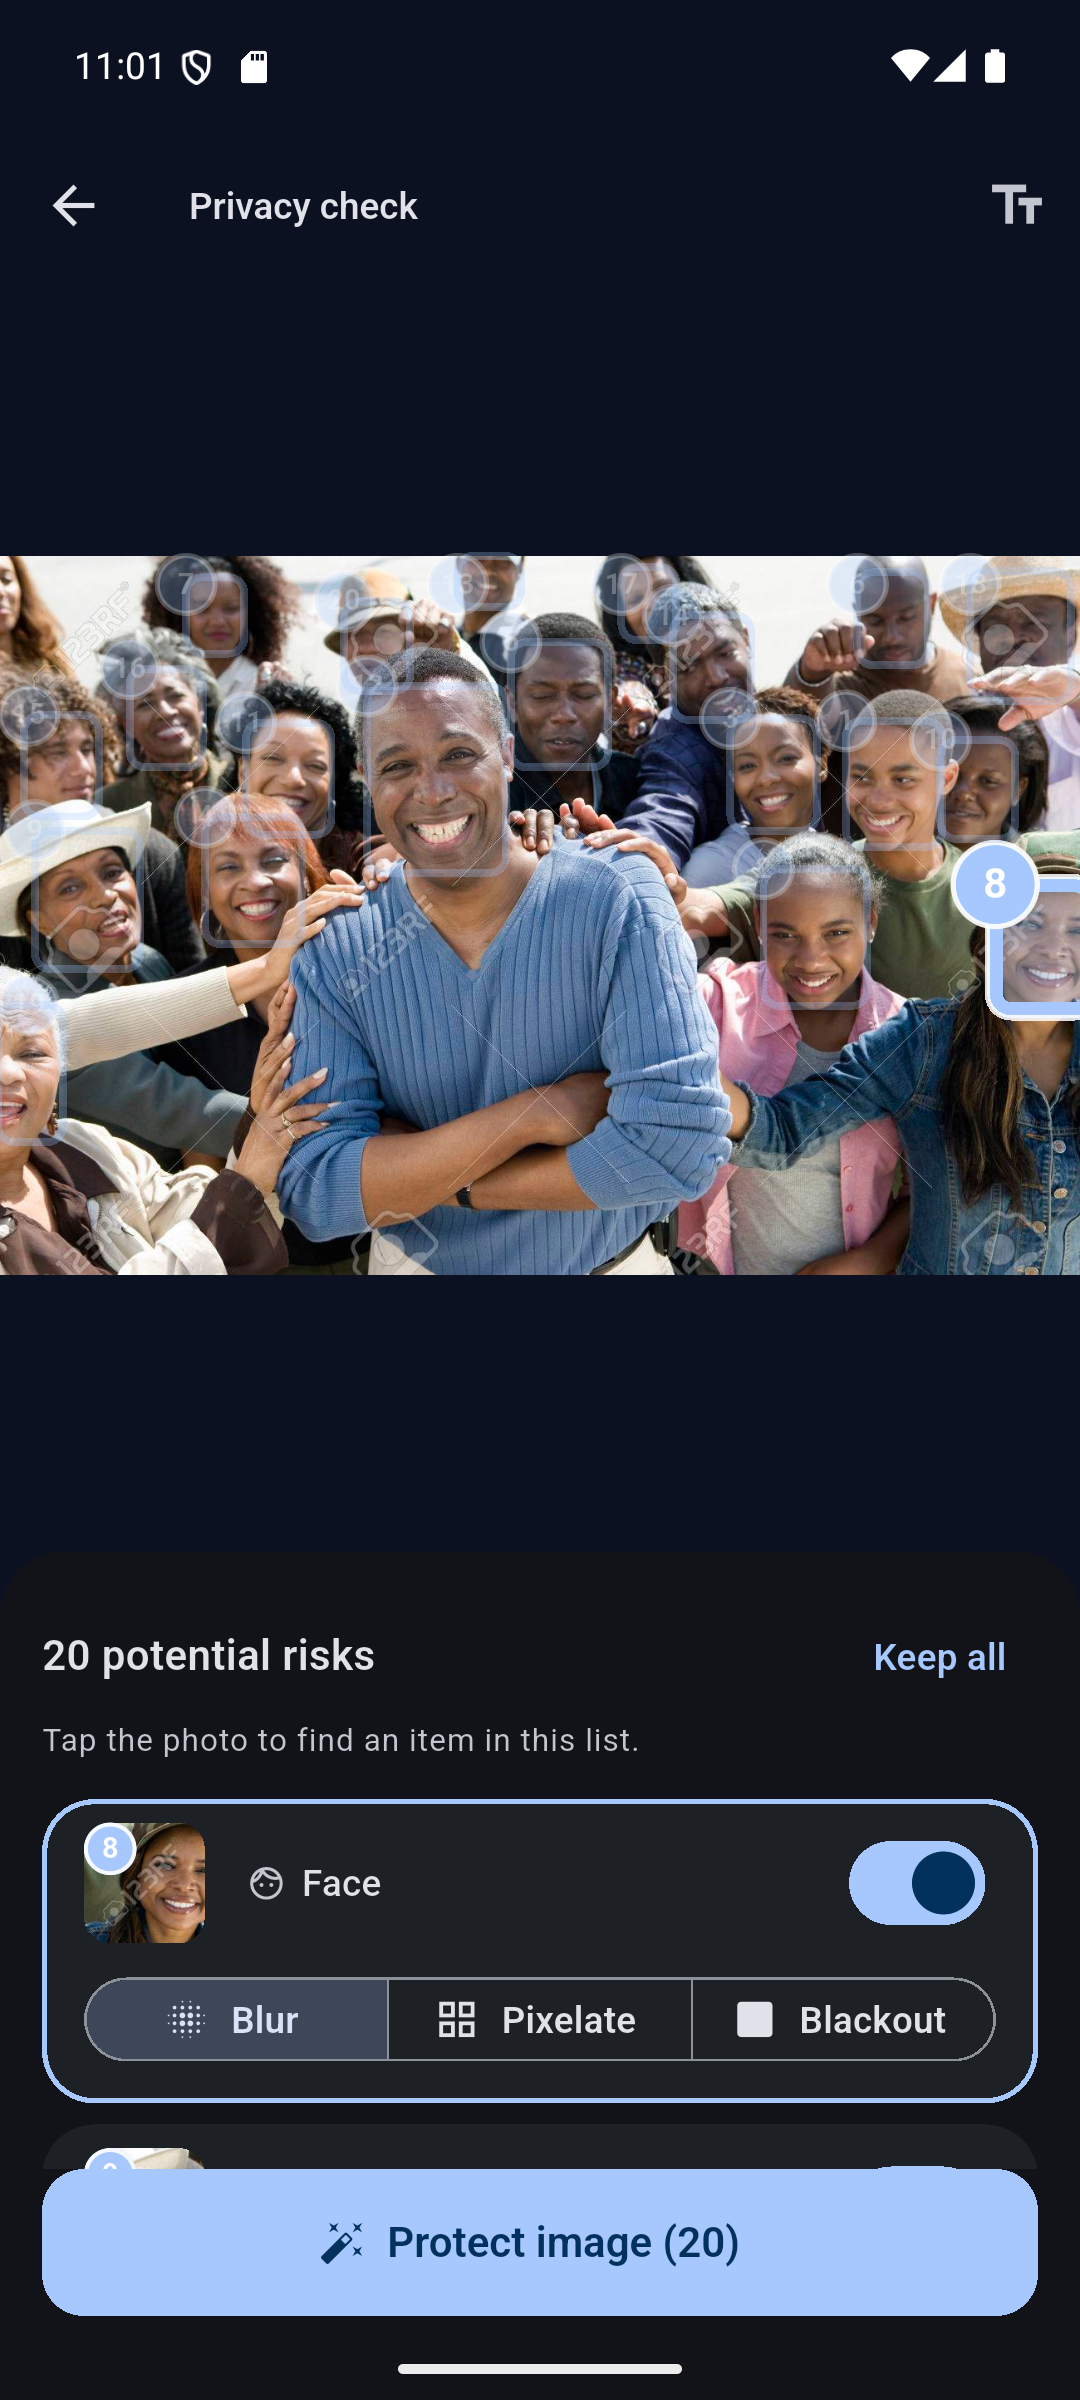
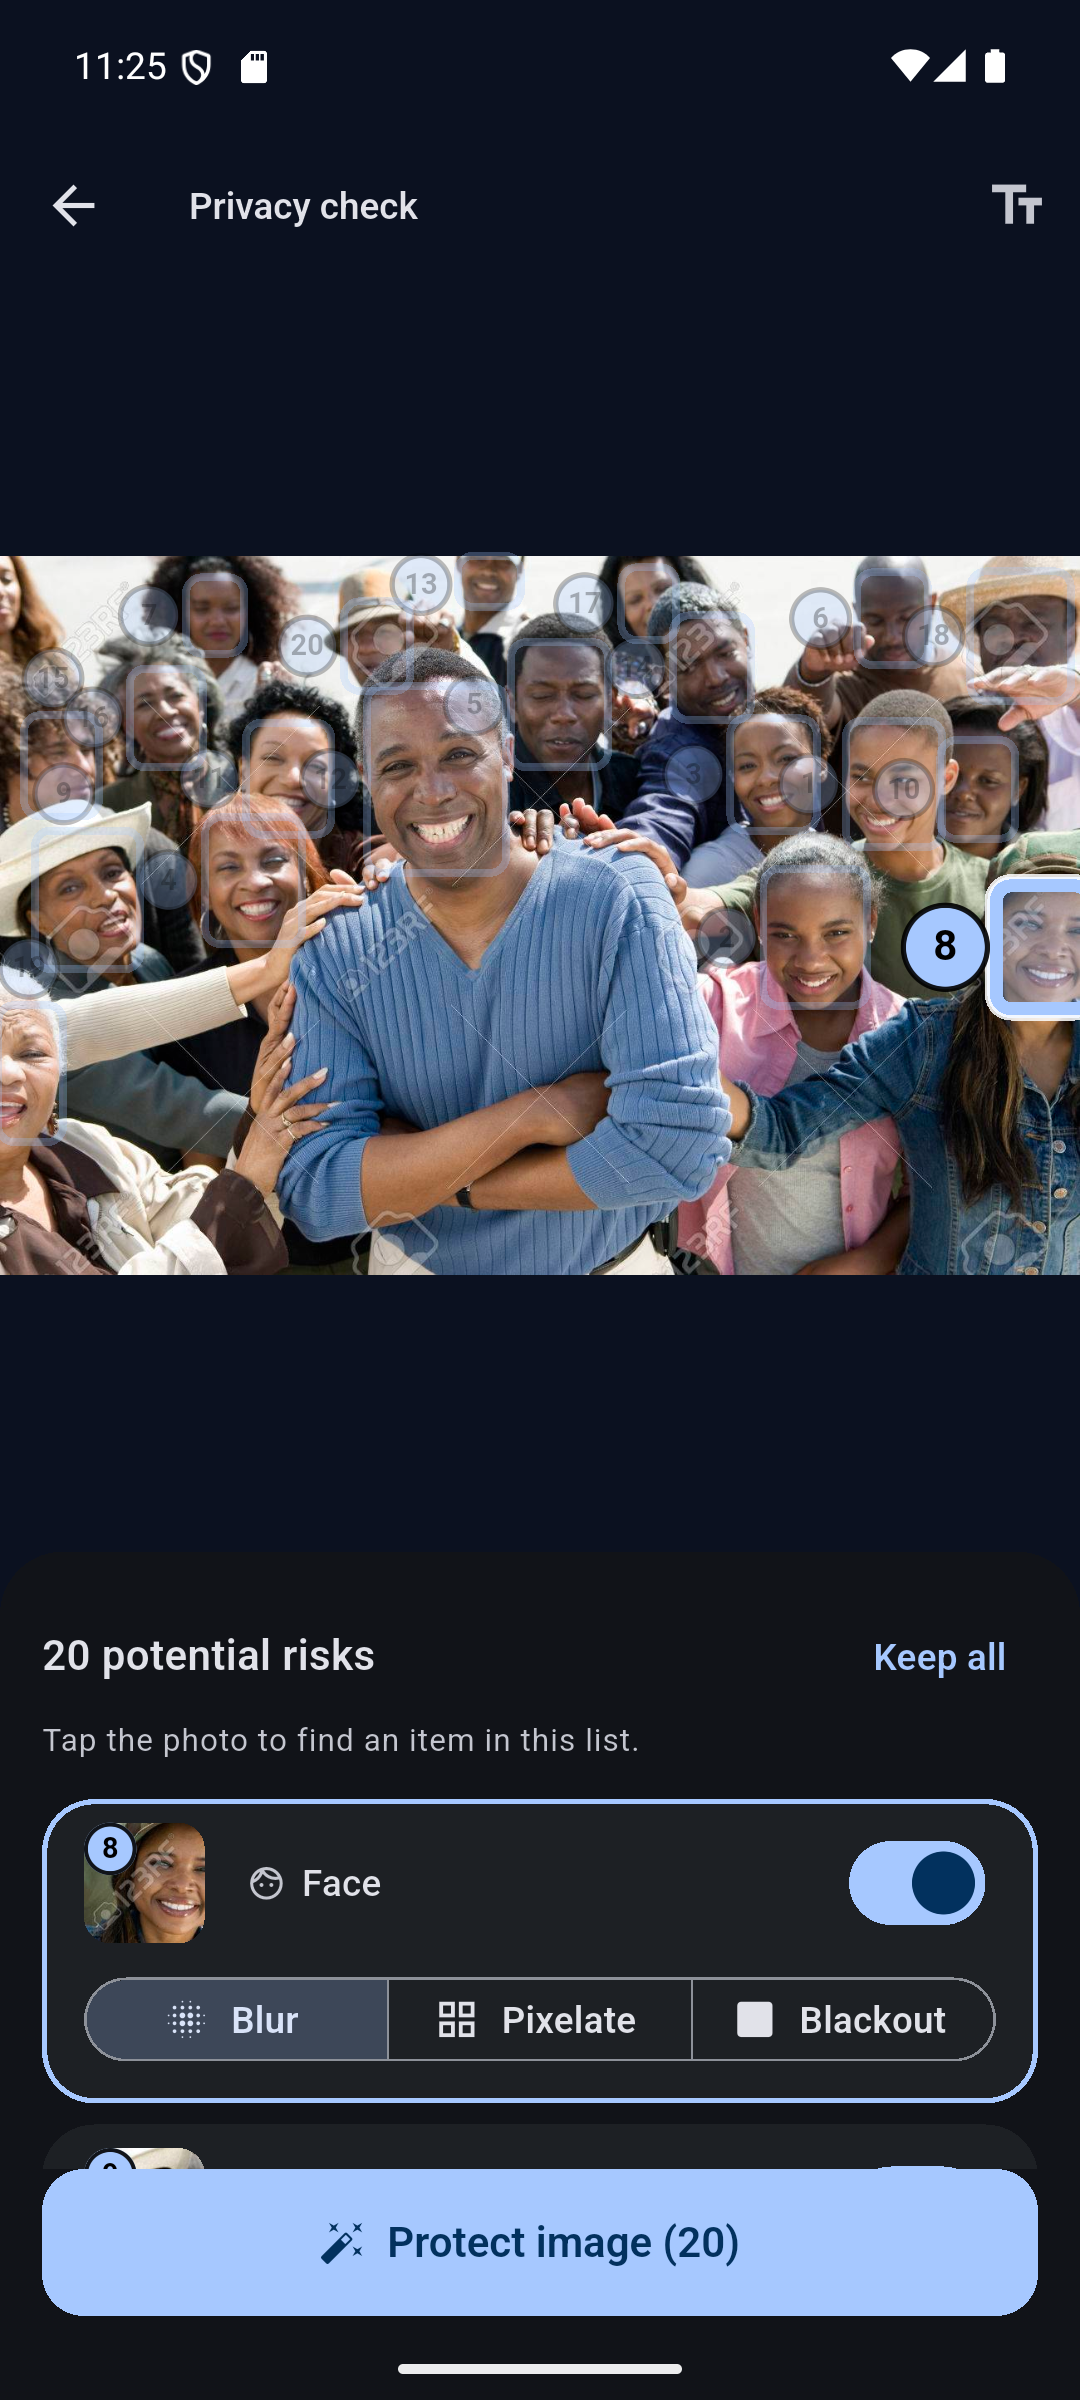
Fix finding badge placement, thumbnails and colour consistency
Badges covered the text they labelled; thumbnails cropped from the longest side pulled in neighbouring findings; the overlay and card each had their own type-to-colour map and disagreed; badge numerals were unreadable on light fills. Refreshes the README screenshots.

diff --git a/lib/widgets/detection_overlay.dart b/lib/widgets/detection_overlay.dart
@@ -1,7 +1,10 @@
+import 'dart:math' as math;
+
 import 'package:flutter/material.dart';
 
 import '../models/privacy_finding.dart';
 import '../theme/app_theme.dart';
+import 'finding_style.dart';
 
 /// Draws a numbered box around each finding.
 ///
@@ -70,14 +73,6 @@ class _FindingBoxPainter extends CustomPainter {
   final String? highlightedId;
   final List<Rect> debugTextBounds;
 
-  Color _colorFor(FindingType type) => switch (type) {
-    FindingType.face => scheme.primary,
-    FindingType.qrCode => scheme.tertiary,
-    FindingType.manual => scheme.secondary,
-    // Every text-derived risk shares the alarm colour.
-    _ => riskColor,
-  };
-
   @override
   void paint(Canvas canvas, Size size) {
     if (imageSize.isEmpty) return;
@@ -110,7 +105,7 @@ class _FindingBoxPainter extends CustomPainter {
 
     for (final (index, finding) in findings.indexed) {
       final rect = toScreen(finding.bounds);
-      final color = _colorFor(finding.type);
+      final color = colorForFinding(finding.type, scheme, riskColor);
       final rrect = RRect.fromRectAndRadius(rect, const Radius.circular(6));
       final isHighlighted = finding.id == highlightedId;
 
@@ -160,7 +155,7 @@ class _FindingBoxPainter extends CustomPainter {
         );
       }
 
-      _drawBadge(canvas, rect, index + 1, color, isHighlighted, fade);
+      _drawBadge(canvas, size, rect, index + 1, color, isHighlighted, fade);
     }
   }
 
@@ -170,6 +165,7 @@ class _FindingBoxPainter extends CustomPainter {
   /// A number on both the box and the card is what makes them one thing.
   void _drawBadge(
     Canvas canvas,
+    Size size,
     Rect rect,
     int number,
     Color color,
@@ -177,33 +173,51 @@ class _FindingBoxPainter extends CustomPainter {
     double fade,
   ) {
     final radius = isHighlighted ? 16.0 : 11.0;
+    const gap = 3.0;
 
-    // Sit the badge just outside the top-left corner, but pull it back
-    // inside when the box is near the edge of the image.
-    final centre = Offset(
-      rect.left.clamp(radius, double.infinity),
-      rect.top.clamp(radius, double.infinity),
+    // Keep the badge OUTSIDE the box it labels. Sitting it on the corner
+    // covered the first character of every flagged phone number, email
+    // and address - the badge hid the very thing it was pointing at.
+    //
+    // Prefer the left edge, because findings that stack vertically (lines
+    // of text) have room beside them but not above. Fall back to above,
+    // then inside, when the box is against an edge of the image.
+    final Offset centre;
+    if (rect.left - radius - gap >= 0) {
+      centre = Offset(rect.left - radius - gap, rect.center.dy);
+    } else if (rect.top - radius - gap >= 0) {
+      centre = Offset(rect.left + radius, rect.top - radius - gap);
+    } else {
+      centre = Offset(rect.left + radius + gap, rect.top + radius + gap);
+    }
+
+    // Never let it fall off the edge of the canvas.
+    final clamped = Offset(
+      centre.dx.clamp(radius, math.max(radius, size.width - radius)),
+      centre.dy.clamp(radius, math.max(radius, size.height - radius)),
     );
 
     canvas.drawCircle(
-      centre,
+      clamped,
       radius,
       Paint()..color = color.withValues(alpha: fade),
     );
+    final ink = onFindingColor(color);
+
     canvas.drawCircle(
-      centre,
+      clamped,
       radius,
       Paint()
         ..style = PaintingStyle.stroke
         ..strokeWidth = 2
-        ..color = Colors.white.withValues(alpha: 0.9 * fade),
+        ..color = ink.withValues(alpha: 0.9 * fade),
     );
 
     final painter = TextPainter(
       text: TextSpan(
         text: '$number',
         style: TextStyle(
-          color: Colors.white.withValues(alpha: fade),
+          color: ink.withValues(alpha: fade),
           fontSize: radius,
           fontWeight: FontWeight.w700,
           height: 1,
@@ -214,7 +228,7 @@ class _FindingBoxPainter extends CustomPainter {
 
     painter.paint(
       canvas,
-      centre - Offset(painter.width / 2, painter.height / 2),
+      clamped - Offset(painter.width / 2, painter.height / 2),
     );
   }
 

diff --git a/lib/widgets/finding_card.dart b/lib/widgets/finding_card.dart
@@ -4,34 +4,8 @@ import 'package:flutter/material.dart';
 
 import '../models/privacy_finding.dart';
 import '../theme/app_theme.dart';
+import 'finding_style.dart';
 import 'region_thumbnail.dart';
-
-/// Icon for each kind of finding.
-///
-/// Lives in the widget layer, not the model: PrivacyFinding is plain data
-/// and should not depend on Flutter.
-IconData iconForFinding(FindingType type) => switch (type) {
-  FindingType.face => Icons.face_outlined,
-  FindingType.phoneNumber => Icons.phone_outlined,
-  FindingType.email => Icons.alternate_email,
-  FindingType.url => Icons.link,
-  FindingType.cardNumber => Icons.credit_card,
-  FindingType.address => Icons.home_outlined,
-  FindingType.qrCode => Icons.qr_code_2,
-  FindingType.manual => Icons.crop_square,
-};
-
-IconData iconForMethod(RedactionMethod method) => switch (method) {
-  RedactionMethod.blur => Icons.blur_on,
-  RedactionMethod.pixelate => Icons.grid_view,
-  RedactionMethod.blackout => Icons.square_rounded,
-};
-
-String labelForMethod(RedactionMethod method) => switch (method) {
-  RedactionMethod.blur => 'Blur',
-  RedactionMethod.pixelate => 'Pixelate',
-  RedactionMethod.blackout => 'Blackout',
-};
 
 /// One row in the findings list (outline sections 13, 14 and 18).
 ///
@@ -72,9 +46,7 @@ class FindingCard extends StatelessWidget {
     final scheme = theme.colorScheme;
     final semantics = context.semantics;
 
-    final accent = finding.type == FindingType.face
-        ? scheme.primary
-        : semantics.risk;
+    final accent = colorForFinding(finding.type, scheme, semantics.risk);
 
     return Card(
       clipBehavior: Clip.antiAlias,
@@ -219,14 +191,14 @@ class _NumberedThumbnail extends StatelessWidget {
                 color: color,
                 shape: BoxShape.circle,
                 border: Border.all(
-                  color: Colors.white.withValues(alpha: 0.9),
+                  color: onFindingColor(color).withValues(alpha: 0.9),
                   width: 1.5,
                 ),
               ),
               child: Text(
                 '$number',
-                style: const TextStyle(
-                  color: Colors.white,
+                style: TextStyle(
+                  color: onFindingColor(color),
                   fontSize: 11,
                   fontWeight: FontWeight.w700,
                   height: 1,

diff --git a/lib/widgets/finding_style.dart b/lib/widgets/finding_style.dart
@@ -1,0 +1,57 @@
+import 'package:flutter/material.dart';
+
+import '../models/privacy_finding.dart';
+
+/// How a finding looks: its icon and its colour.
+///
+/// One place, deliberately. The overlay and the card each used to decide
+/// this for themselves, and they disagreed - a QR code drew purple on the
+/// photo and red on its card, which quietly undermines the whole point of
+/// the numbering, since the number and colour are what tell the user the
+/// box and the row are the same thing.
+///
+/// Lives in the widget layer, not the model: PrivacyFinding is plain data
+/// and should not depend on Flutter.
+
+IconData iconForFinding(FindingType type) => switch (type) {
+  FindingType.face => Icons.face_outlined,
+  FindingType.phoneNumber => Icons.phone_outlined,
+  FindingType.email => Icons.alternate_email,
+  FindingType.url => Icons.link,
+  FindingType.cardNumber => Icons.credit_card,
+  FindingType.address => Icons.home_outlined,
+  FindingType.qrCode => Icons.qr_code_2,
+  FindingType.manual => Icons.crop_square,
+};
+
+/// [risk] comes from the theme extension, which the painter cannot read
+/// itself, so it is passed in.
+Color colorForFinding(FindingType type, ColorScheme scheme, Color risk) =>
+    switch (type) {
+      FindingType.face => scheme.primary,
+      FindingType.qrCode => scheme.tertiary,
+      FindingType.manual => scheme.secondary,
+      // Every text-derived risk shares the alarm colour.
+      _ => risk,
+    };
+
+IconData iconForMethod(RedactionMethod method) => switch (method) {
+  RedactionMethod.blur => Icons.blur_on,
+  RedactionMethod.pixelate => Icons.grid_view,
+  RedactionMethod.blackout => Icons.square_rounded,
+};
+
+String labelForMethod(RedactionMethod method) => switch (method) {
+  RedactionMethod.blur => 'Blur',
+  RedactionMethod.pixelate => 'Pixelate',
+  RedactionMethod.blackout => 'Blackout',
+};
+
+/// Readable ink for text drawn ON a finding's colour.
+///
+/// The badge fill changes with the finding type, and some of those - the
+/// tertiary used for QR codes - are light. White numerals on a pale badge
+/// sitting on a white QR code were effectively invisible, which defeats
+/// the point of numbering them at all.
+Color onFindingColor(Color background) =>
+    background.computeLuminance() > 0.55 ? Colors.black : Colors.white;

diff --git a/lib/widgets/region_thumbnail.dart b/lib/widgets/region_thumbnail.dart
@@ -62,14 +62,27 @@ class _RegionPainter extends CustomPainter {
 
     if (bounds.isEmpty) return;
 
-    // Take a SQUARE source region centred on the finding, slightly larger
-    // than the finding itself. A phone-number box is a thin wide strip;
-    // stretching that into a square thumbnail would be unreadable, and a
-    // little surrounding context is what makes a face recognisable.
-    final side = math.max(bounds.width, bounds.height) * 1.25;
+    // A SQUARE source region centred on the finding, sized from the
+    // finding's SHORTER side.
+    //
+    // Sizing from the longer side seems more natural and is wrong: a
+    // phone-number box is a wide thin strip, so a square that covers its
+    // width also swallows the three findings above and below it, and the
+    // thumbnail ends up showing everything except the thing it labels.
+    // Sizing from the shorter side keeps the crop inside the finding -
+    // a face gets useful context, a text strip gets a zoomed piece of
+    // itself, and neither borrows its neighbours.
+    final side = math.max(bounds.shortestSide * 1.5, 12.0);
     final centre = bounds.center;
 
-    var left = centre.dx - side / 2;
+    // For a wide strip, anchor the crop at its START rather than its
+    // middle. The first characters of a phone number or an address
+    // identify it; the middle two characters do not.
+    final anchorX = bounds.width > bounds.height * 1.5
+        ? bounds.left + side / 2
+        : centre.dx;
+
+    var left = anchorX - side / 2;
     var top = centre.dy - side / 2;
 
     // Keep the square inside the image rather than sampling past its edge.

diff --git a/README.md b/README.md
@@ -16,12 +16,12 @@ Built with Flutter and Google ML Kit. No backend, no accounts, no image uploads.
 | Findings — text | Findings — QR | Dark theme |
 |:---:|:---:|:---:|
 | ![Text findings](docs/screenshots/editor-text.png) | ![QR finding](docs/screenshots/editor-qr.png) | ![Dark theme](docs/screenshots/home-dark.png) |
-| Tight boxes on exactly the sensitive spans | Decoded payload shown so you can judge it | Every screen themed from the same tokens |
+| Numbered boxes on exactly the sensitive spans | Decoded payload shown so you can judge it | Every screen themed from the same tokens |
 
 | Picking one of many | The protected copy |
 |:---:|:---:|
 | ![Redaction methods](docs/screenshots/editor-methods.png) | ![Protected result](docs/screenshots/result.png) |
-| Numbered boxes, region thumbnails, blur/pixelate/blackout per finding | Rendered once from the original |
+| Tapping face 8 dims the other 19 and scrolls to its card | Rendered once from the original |
 
 > The findings screenshots use a deliberate test image. The six items under **SHOULD BE FLAGGED** are all caught; the three under **SHOULD NOT BE FLAGGED** are all correctly ignored, including a 16-digit order number that fails the Luhn check. In the protected copy, note that "Call me at" and "Card" survive — only the sensitive spans are hidden, not the whole line.
 
@@ -124,6 +124,7 @@ lib/
 └── widgets/
     ├── detection_overlay.dart       Draws the numbered boxes
     ├── finding_card.dart            One reviewable finding
+    ├── finding_style.dart           Icon and colour per finding type
     ├── region_thumbnail.dart        Crop of a finding, for its card
     └── fade_slide_in.dart           Staggered entrance animation
 ```
